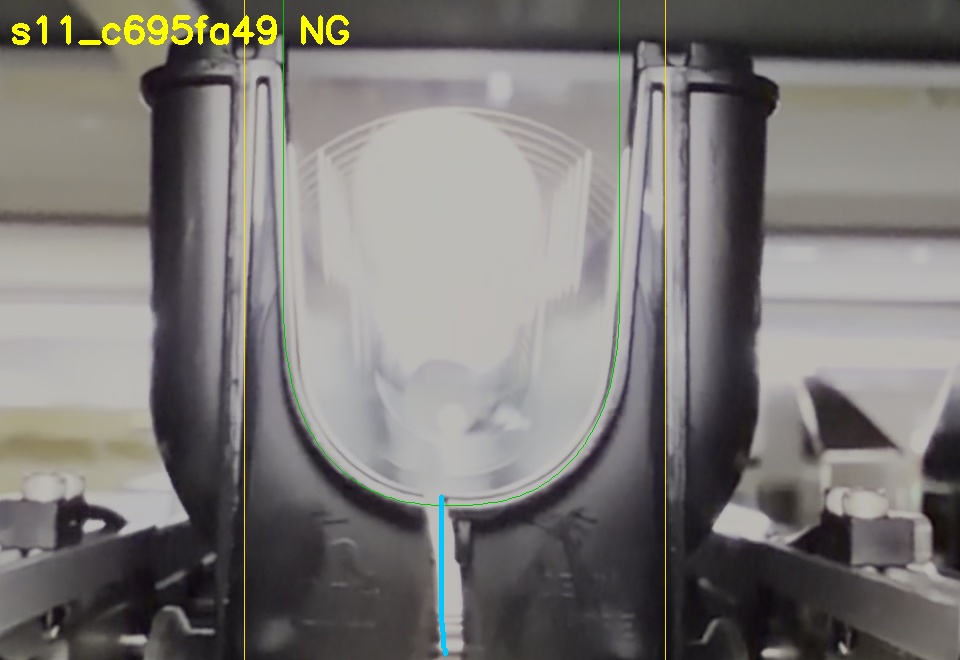
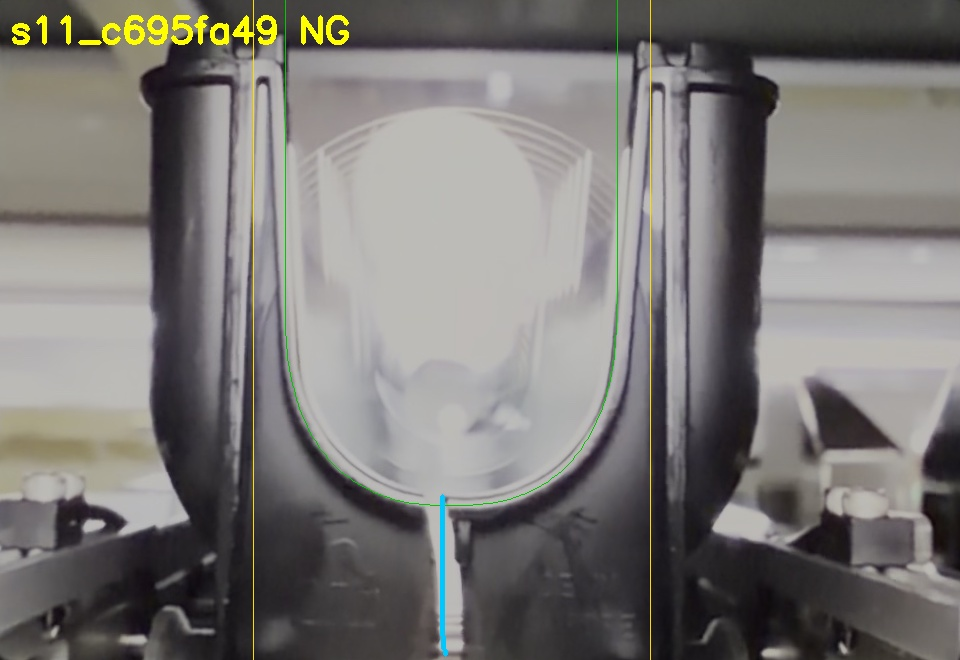
End line = plate edge (step into the groove), red frame = cassette outer edge; half cracks on legs no longer NG
Claude-Session: https://claude.ai/code/session_01AGHVZAzegJVfdU4wL5nFmJ

Changed region(s): [[0.625, 0.0, 0.7188, 1.0], [0.25, 0.0, 0.3125, 1.0], [0.4375, 0.7576, 0.4688, 0.9394]]

diff --git a/gist/crack_v14_bundle.py b/gist/crack_v14_bundle.py
@@ -735,11 +735,13 @@ PARAMS = dict(
     ratio_th=0.35,        # 道の上で健全部を通った割合がこれ以下なら「抜けている」（D: 暗い割れ）
     b_ratio_th=0.20,      # B（明るい割れ）は光が漏れてはっきり明るいので厳しくする（本物は 0.03〜0.06、リブの反射は 0.3 前後）
     gap_th=25.0,          # 割れていない区間が最長でもこれ以下 [px]
-    end_gap_inner=10.0,   # 割れが内側の端からこれ以上手前で止まっていたら半割れ（OK） [px]
+    end_gap_inner=15.0,   # 割れが内側の端からこれ以上手前で止まっていたら半割れ（OK） [px]
     end_gap_outer=25.0,   # 割れが外側の端からこれ以上手前で止まっていたら半割れ（OK） [px]
     rim_break_th=0.30,    # D: 起点で縁取りがこれ以上切れていること（上げると過検出が減り、見逃しが増える）
     solid_ratio_th=0.12,  # D: 縁取りの途切れが弱くても、ここまできれいに端から端までつながった割れ線なら NG
     solid_gap_th=10.0,    #    （本物の割れ 0.05〜0.09 / 5px、OK品の傷・溝は 0.17 以上 / 29px 以上）
+    direct_ratio_th=0.0,  # D: まっすぐ外縁へ向かう割れ（遠回り度 direct_detour 以下）なら、ここまで緩める
+    direct_detour=2.0,    #    遠回り度 = 経路の長さ / 起点から外縁までの最短距離（溝や成形線を伝う道は大きくなる）
     reach_th=0.90,        # B: 漏れた光が開口部までつながっている割合
     d_lo=0.10, d_hi=0.30, # D: 相対的な暗さ（×細長さ）がこの範囲で割れらしさ 0 -> 1
     b_lo=2.5, b_hi=6.0,   # B: 周りより明るい度合いがこの範囲で割れらしさ 0 -> 1
@@ -786,6 +788,7 @@ class Inspector:
             return float(max((dist[P[:, 0], P[:, 1]] < hug_d).mean(), (dist_rib[P[:, 0], P[:, 1]] < 25).mean()))
 
         rim_mask = cr.m["rim"]
+        to_outer = cv2.distanceTransform((~cr.m["outer"]).astype(np.uint8), cv2.DIST_L2, 5)   # 外縁までの距離
 
         def reject(q):
             """割れではない道:
@@ -827,7 +830,12 @@ class Inspector:
                     q["rim_break"], ri = cr.rim_break(frame, start)
                     if cr.rim_ignored(ri):
                         q["rim_break"] = 0.0                            # ゲートの切り欠きは数えない
-                    solid = q["ratio"] <= p["solid_ratio_th"] and q["max_gap"] <= p["solid_gap_th"]
+                    P = q["path"]
+                    detour = q["length"] / max(float(to_outer[P[0, 0], P[0, 1]]), 1.0)
+                    q["detour"] = detour
+                    solid = q["max_gap"] <= p["solid_gap_th"] and (
+                        q["ratio"] <= p["solid_ratio_th"]
+                        or (q["ratio"] <= p["direct_ratio_th"] and detour <= p["direct_detour"]))
                     q["ng"] = q["ng"] and ends_ok and (q["rim_break"] >= p["rim_break_th"] or solid)
                 q.pop("prob", None)
 
@@ -1115,7 +1123,39 @@ def find_ribs(frame, left_leg, right_leg, y_from):
     return float(lx), float(rx)
 
 
-def detect_geometry(frame, edge_margin=10, min_thick=12):
+def find_plate_edges(frame, rim, y_from):
+    """プレートの左右の端（割れの終点）と、カセットの外側の縁（赤い枠）を探す。
+
+    U字の脚から外へ向かって明るさを見ると、どの型でも
+        プレート（明るめ） -> [段差で暗く] 溝 -> [段差で明るく] リブのハイライト -> [段差で暗く] リブの外側
+    の順に並んでいる。
+      プレートの端 = 脚とリブのハイライトの間で、一番はっきり外へ向かって暗くなる所
+                     （割れがここまで届けば「外縁まで割れた」とみなす。溝の中を這う線は数えない）
+      外側の縁     = リブのハイライトの外側の、外へ向かって暗くなる所（確認画像の赤い枠）
+    見つからないときは None を返す。
+    """
+    H, W = frame.shape
+    f = cv2.GaussianBlur(frame.astype(np.float32), (0, 0), 2)
+    gx = cv2.Sobel(f, cv2.CV_32F, 1, 0, ksize=5) / 16
+    m = np.median(gx[int(min(H - 40, y_from)):H - 20], 0)          # 列ごとの、横方向の明るさの変化
+    out = {}
+    for side, leg in ((-1, rim[:, 0].min()), (1, rim[:, 0].max())):
+        xs = np.arange(int(leg) + 12 * side, int(leg) + 140 * side, side)
+        xs = xs[(xs > 2) & (xs < W - 3)]
+        if len(xs) < 20:
+            return None
+        v = side * m[xs]                         # 外へ向かって明るくなると +、暗くなると -
+        rise = int(np.argmax(v))                 # リブのハイライト
+        if v[rise] < 8 or rise < 5:
+            return None
+        edge = int(np.argmin(v[:rise - 2]))      # プレートの端（ハイライトより内側で一番暗くなる所）
+        after = v[rise:rise + 35]
+        drop = rise + int(np.argmin(after)) if len(after) and after.min() < -8 else min(rise + 10, len(xs) - 1)
+        out[side] = (float(xs[edge]), float(xs[drop]))
+    return out[-1][0], out[1][0], out[-1][1], out[1][1]
+
+
+def detect_geometry(frame, edge_margin=3, min_thick=40):
     """1枚の画像（基準座標 960x660）から検査範囲を作る。戻り値: (検査範囲, はっきり度)"""
     W, H = SIZE
     op = find_opening(frame)                                    # U字の開口部を領域として切り出す
@@ -1133,7 +1173,13 @@ def detect_geometry(frame, edge_margin=10, min_thick=12):
     top_y = float(rim[:, 1].min())
     mid = rim[(rim[:, 1] > top_y + 0.2 * (bottom[1] - top_y)) & (rim[:, 1] < bottom[1] - 0.2 * (bottom[1] - top_y))]
     mid = mid if len(mid) else rim
-    lx, rx = find_ribs(frame, mid[:, 0].min(), mid[:, 0].max(), bottom[1] - 0.3 * (bottom[1] - top_y))
+    y_from = bottom[1] - 0.3 * (bottom[1] - top_y)
+    pe = find_plate_edges(frame, rim, y_from)
+    if pe is not None:
+        lx, rx, ox_l, ox_r = pe                                  # プレートの端（終点）と外側の縁（赤い枠）
+    else:
+        lx, rx = find_ribs(frame, mid[:, 0].min(), mid[:, 0].max(), y_from)
+        ox_l, ox_r = lx, rx
     half = (rim[:, 0].max() - rim[:, 0].min()) / 2
     gw = max(18.0, 0.12 * half)                               # ゲートの切り欠きの範囲（U字の大きさに比例）
     g = dict(
@@ -1144,19 +1190,23 @@ def detect_geometry(frame, edge_margin=10, min_thick=12):
         rim_ignore=[(float(bottom[0] - gw), float(bottom[1] - 15), float(bottom[0] + gw), float(bottom[1] + 60))],
         outer=[[(lx + 2, 0.0), (lx + 2, H - 1.0)], [(rx - 2, 0.0), (rx - 2, H - 1.0)], [(lx, H - 3.0), (rx, H - 3.0)]],
         center=(float(cx), float(cy)), score=float(total),
+        frame_box=(float(ox_l), float(ox_r)),
     )
     return g, float(total)
 
 
 def draw_geometry(frame, g):
-    """検査範囲を画像に重ねた確認用の画像（緑 = 縁取りの外側、赤 = 縦リブと下端、青 = 探す範囲）。"""
+    """検査範囲を画像に重ねた確認用の画像（緑 = 起点、青 = 探す範囲、オレンジ = 終点、赤 = カセットの外側の縁）。"""
     m = build_masks(g)
     vis = cv2.cvtColor(frame, cv2.COLOR_GRAY2BGR)
     over = vis.copy()
     over[m["band"]] = (200, 80, 0)
     vis = cv2.addWeighted(over, 0.25, vis, 0.75, 0)
     vis[m["inner"]] = (0, 220, 0)
-    vis[m["outer"]] = (0, 0, 255)
+    vis[m["outer"]] = (0, 165, 255)                  # オレンジ: 割れの終点（プレートの端）
+    if "frame_box" in g:                             # 赤: カセットの外側の縁
+        a_, b_ = g["frame_box"]
+        cv2.rectangle(vis, (int(a_), 1), (int(b_), vis.shape[0] - 2), (0, 0, 255), 2)
     for x0, y0, x1, y1 in g.get("rim_ignore", []):
         cv2.rectangle(vis, (int(x0), int(y0)), (int(x1), int(y1)), (0, 200, 255), 1)
     return vis

diff --git a/crack_v14/u_detect.py b/crack_v14/u_detect.py
@@ -188,7 +188,39 @@ def find_ribs(frame, left_leg, right_leg, y_from):
     return float(lx), float(rx)
 
 
-def detect_geometry(frame, edge_margin=10, min_thick=12):
+def find_plate_edges(frame, rim, y_from):
+    """プレートの左右の端（割れの終点）と、カセットの外側の縁（赤い枠）を探す。
+
+    U字の脚から外へ向かって明るさを見ると、どの型でも
+        プレート（明るめ） -> [段差で暗く] 溝 -> [段差で明るく] リブのハイライト -> [段差で暗く] リブの外側
+    の順に並んでいる。
+      プレートの端 = 脚とリブのハイライトの間で、一番はっきり外へ向かって暗くなる所
+                     （割れがここまで届けば「外縁まで割れた」とみなす。溝の中を這う線は数えない）
+      外側の縁     = リブのハイライトの外側の、外へ向かって暗くなる所（確認画像の赤い枠）
+    見つからないときは None を返す。
+    """
+    H, W = frame.shape
+    f = cv2.GaussianBlur(frame.astype(np.float32), (0, 0), 2)
+    gx = cv2.Sobel(f, cv2.CV_32F, 1, 0, ksize=5) / 16
+    m = np.median(gx[int(min(H - 40, y_from)):H - 20], 0)          # 列ごとの、横方向の明るさの変化
+    out = {}
+    for side, leg in ((-1, rim[:, 0].min()), (1, rim[:, 0].max())):
+        xs = np.arange(int(leg) + 12 * side, int(leg) + 140 * side, side)
+        xs = xs[(xs > 2) & (xs < W - 3)]
+        if len(xs) < 20:
+            return None
+        v = side * m[xs]                         # 外へ向かって明るくなると +、暗くなると -
+        rise = int(np.argmax(v))                 # リブのハイライト
+        if v[rise] < 8 or rise < 5:
+            return None
+        edge = int(np.argmin(v[:rise - 2]))      # プレートの端（ハイライトより内側で一番暗くなる所）
+        after = v[rise:rise + 35]
+        drop = rise + int(np.argmin(after)) if len(after) and after.min() < -8 else min(rise + 10, len(xs) - 1)
+        out[side] = (float(xs[edge]), float(xs[drop]))
+    return out[-1][0], out[1][0], out[-1][1], out[1][1]
+
+
+def detect_geometry(frame, edge_margin=3, min_thick=40):
     """1枚の画像（基準座標 960x660）から検査範囲を作る。戻り値: (検査範囲, はっきり度)"""
     W, H = SIZE
     op = find_opening(frame)                                    # U字の開口部を領域として切り出す
@@ -206,7 +238,13 @@ def detect_geometry(frame, edge_margin=10, min_thick=12):
     top_y = float(rim[:, 1].min())
     mid = rim[(rim[:, 1] > top_y + 0.2 * (bottom[1] - top_y)) & (rim[:, 1] < bottom[1] - 0.2 * (bottom[1] - top_y))]
     mid = mid if len(mid) else rim
-    lx, rx = find_ribs(frame, mid[:, 0].min(), mid[:, 0].max(), bottom[1] - 0.3 * (bottom[1] - top_y))
+    y_from = bottom[1] - 0.3 * (bottom[1] - top_y)
+    pe = find_plate_edges(frame, rim, y_from)
+    if pe is not None:
+        lx, rx, ox_l, ox_r = pe                                  # プレートの端（終点）と外側の縁（赤い枠）
+    else:
+        lx, rx = find_ribs(frame, mid[:, 0].min(), mid[:, 0].max(), y_from)
+        ox_l, ox_r = lx, rx
     half = (rim[:, 0].max() - rim[:, 0].min()) / 2
     gw = max(18.0, 0.12 * half)                               # ゲートの切り欠きの範囲（U字の大きさに比例）
     g = dict(
@@ -217,19 +255,23 @@ def detect_geometry(frame, edge_margin=10, min_thick=12):
         rim_ignore=[(float(bottom[0] - gw), float(bottom[1] - 15), float(bottom[0] + gw), float(bottom[1] + 60))],
         outer=[[(lx + 2, 0.0), (lx + 2, H - 1.0)], [(rx - 2, 0.0), (rx - 2, H - 1.0)], [(lx, H - 3.0), (rx, H - 3.0)]],
         center=(float(cx), float(cy)), score=float(total),
+        frame_box=(float(ox_l), float(ox_r)),
     )
     return g, float(total)
 
 
 def draw_geometry(frame, g):
-    """検査範囲を画像に重ねた確認用の画像（緑 = 縁取りの外側、赤 = 縦リブと下端、青 = 探す範囲）。"""
+    """検査範囲を画像に重ねた確認用の画像（緑 = 起点、青 = 探す範囲、オレンジ = 終点、赤 = カセットの外側の縁）。"""
     m = build_masks(g)
     vis = cv2.cvtColor(frame, cv2.COLOR_GRAY2BGR)
     over = vis.copy()
     over[m["band"]] = (200, 80, 0)
     vis = cv2.addWeighted(over, 0.25, vis, 0.75, 0)
     vis[m["inner"]] = (0, 220, 0)
-    vis[m["outer"]] = (0, 0, 255)
+    vis[m["outer"]] = (0, 165, 255)                  # オレンジ: 割れの終点（プレートの端）
+    if "frame_box" in g:                             # 赤: カセットの外側の縁
+        a_, b_ = g["frame_box"]
+        cv2.rectangle(vis, (int(a_), 1), (int(b_), vis.shape[0] - 2), (0, 0, 255), 2)
     for x0, y0, x1, y1 in g.get("rim_ignore", []):
         cv2.rectangle(vis, (int(x0), int(y0)), (int(x1), int(y1)), (0, 200, 255), 1)
     return vis

diff --git a/crack_v14/inspect_v14.py b/crack_v14/inspect_v14.py
@@ -23,11 +23,13 @@ PARAMS = dict(
     ratio_th=0.35,        # 道の上で健全部を通った割合がこれ以下なら「抜けている」（D: 暗い割れ）
     b_ratio_th=0.20,      # B（明るい割れ）は光が漏れてはっきり明るいので厳しくする（本物は 0.03〜0.06、リブの反射は 0.3 前後）
     gap_th=25.0,          # 割れていない区間が最長でもこれ以下 [px]
-    end_gap_inner=10.0,   # 割れが内側の端からこれ以上手前で止まっていたら半割れ（OK） [px]
+    end_gap_inner=15.0,   # 割れが内側の端からこれ以上手前で止まっていたら半割れ（OK） [px]
     end_gap_outer=25.0,   # 割れが外側の端からこれ以上手前で止まっていたら半割れ（OK） [px]
     rim_break_th=0.30,    # D: 起点で縁取りがこれ以上切れていること（上げると過検出が減り、見逃しが増える）
     solid_ratio_th=0.12,  # D: 縁取りの途切れが弱くても、ここまできれいに端から端までつながった割れ線なら NG
     solid_gap_th=10.0,    #    （本物の割れ 0.05〜0.09 / 5px、OK品の傷・溝は 0.17 以上 / 29px 以上）
+    direct_ratio_th=0.0,  # D: まっすぐ外縁へ向かう割れ（遠回り度 direct_detour 以下）なら、ここまで緩める
+    direct_detour=2.0,    #    遠回り度 = 経路の長さ / 起点から外縁までの最短距離（溝や成形線を伝う道は大きくなる）
     reach_th=0.90,        # B: 漏れた光が開口部までつながっている割合
     d_lo=0.10, d_hi=0.30, # D: 相対的な暗さ（×細長さ）がこの範囲で割れらしさ 0 -> 1
     b_lo=2.5, b_hi=6.0,   # B: 周りより明るい度合いがこの範囲で割れらしさ 0 -> 1
@@ -74,6 +76,7 @@ class Inspector:
             return float(max((dist[P[:, 0], P[:, 1]] < hug_d).mean(), (dist_rib[P[:, 0], P[:, 1]] < 25).mean()))
 
         rim_mask = cr.m["rim"]
+        to_outer = cv2.distanceTransform((~cr.m["outer"]).astype(np.uint8), cv2.DIST_L2, 5)   # 外縁までの距離
 
         def reject(q):
             """割れではない道:
@@ -115,7 +118,12 @@ class Inspector:
                     q["rim_break"], ri = cr.rim_break(frame, start)
                     if cr.rim_ignored(ri):
                         q["rim_break"] = 0.0                            # ゲートの切り欠きは数えない
-                    solid = q["ratio"] <= p["solid_ratio_th"] and q["max_gap"] <= p["solid_gap_th"]
+                    P = q["path"]
+                    detour = q["length"] / max(float(to_outer[P[0, 0], P[0, 1]]), 1.0)
+                    q["detour"] = detour
+                    solid = q["max_gap"] <= p["solid_gap_th"] and (
+                        q["ratio"] <= p["solid_ratio_th"]
+                        or (q["ratio"] <= p["direct_ratio_th"] and detour <= p["direct_detour"]))
                     q["ng"] = q["ng"] and ends_ok and (q["rim_break"] >= p["rim_break_th"] or solid)
                 q.pop("prob", None)
 
